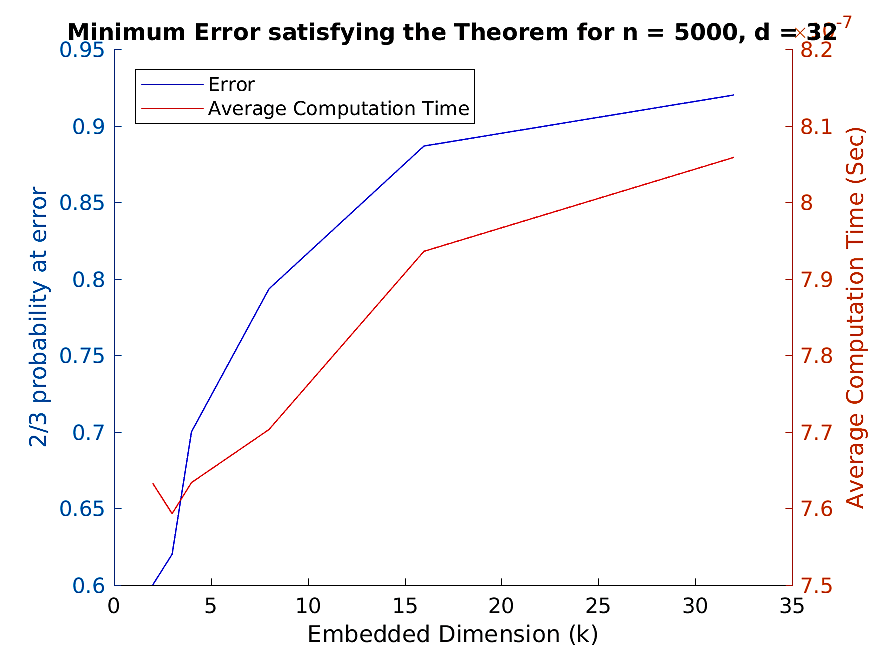
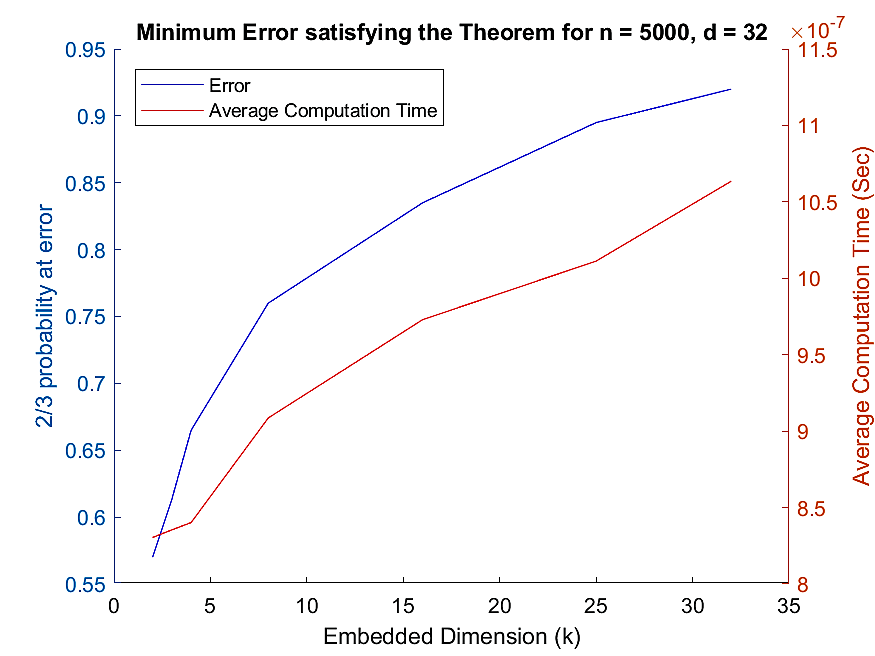
finals for the report

diff --git a/Code/brute_force.m b/Code/brute_force.m
@@ -1,10 +1,10 @@
-  n=10000;
+  n=5000;
 %  testFJLT2(n,32,[2,3,4,5,6,8],[4,16,16,16,32,32]);
 %  testFJLT2(n,64,[2,3,4,5,6,7,8,10],[4,16,16,16,32,32,64,64]);
-%  testFJLT2(n,64,[2,3,4,7,8,10,11],[4,16,16,32,64,64,64]);
+%  testFJLT2(n,128,[2,3,4,7,8,10,15],[4,8,16,32,64,128,128]);
 %  testFJLT2(n,256,[4,8,9,10,11,15,17],[16,64,64,128,128,256,256]);
-%  testFJLT2(n,512,[10,14,15,16,18,20,22,23],[128,128,256,256,256,512,512,512]);
- testFJLT2(n,1024,[20,22,23,25,30,32,34],[512,512,512,512,1024,1024,1024]);
+  testFJLT2(n,512,[10,14,15,16,18,20,22,23],[128,128,256,256,256,512,512,512]);
+%  testFJLT2(n,1024,[20,22,23,25,30,32,34],[512,512,512,512,1024,1024,1024]);
 
-% testFJLT1(5000,32);
+%testFJLT1(5000,32);
 
